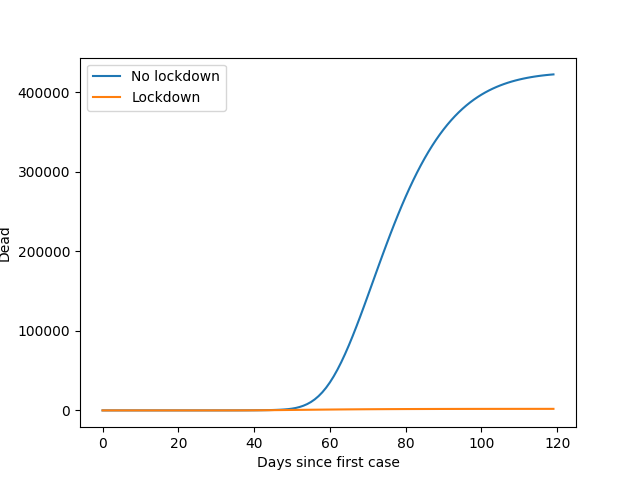
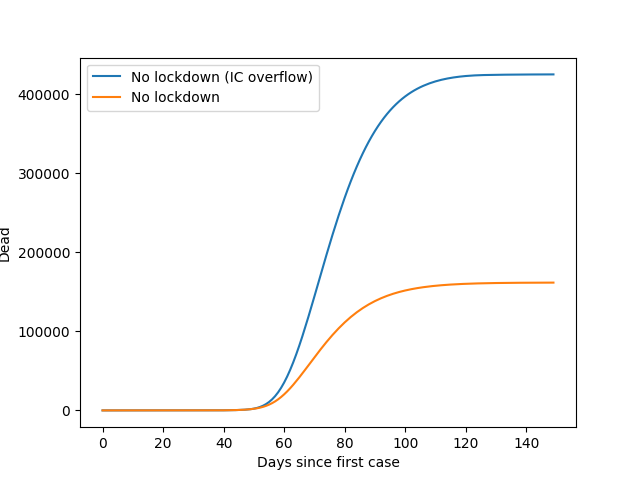
Have fun with merge conflicts

diff --git a/src/main.py b/src/main.py
@@ -210,7 +210,7 @@ def plot_model(contact_matrix, susceptible, infectious_rate, days, reference_cas
 
 def main():
     infectious_rate = .05
-    days = 120
+    days = 150
 
     cc = CCMatrix('cc15.csv', 'eurostat_pop_age.csv', 'COVID19BE_HOSP.csv')
     contact_matrix = cc.cc_matrix
@@ -288,32 +288,32 @@ def main():
     print('IC people:', model_no_lockdown.ic_data[-1])
 
     # Uncomment for plots (icu cap)
-    model_no_lockdown = plot_model(contact_matrix, cc.belgium_count, infectious_rate=infectious_rate, days=days,
+    model_no_lockdown_cap_ic = plot_model(contact_matrix, cc.belgium_count, infectious_rate=infectious_rate, days=days,
                                    first_patient_age=45, cap_ic=True)
 
-    plot([model_no_lockdown.infected_data, model_no_lockdown.hospital_data, model_no_lockdown.ic_data,
-          model_no_lockdown.dead_data, model_no_lockdown.ic_overflow_data], ["Infected", "Hospital", "IC", "Dead", "IC Overflow"],
+    plot([model_no_lockdown_cap_ic.infected_data, model_no_lockdown_cap_ic.hospital_data, model_no_lockdown_cap_ic.ic_data,
+          model_no_lockdown_cap_ic.dead_data, model_no_lockdown_cap_ic.ic_overflow_data], ["Infected", "Hospital", "IC", "Dead", "IC Overflow"],
          name='model_no_lockdown-cap-ic', y_label='Amount')
 
     # plot([model_no_lockdown.ic_data, model_no_lockdown.ic_overflow_data],
     #      ["IC", "IC Overflow"],
     #      name='model_no_lockdown-cap-ic', y_label='Amount')
 
-    plot([model_no_lockdown.infected_data, model.infected_data], ["No lockdown", "Lockdown"],
+    plot([model_no_lockdown_cap_ic.infected_data, model_no_lockdown.infected_data], ["No lockdown (IC overflow)", "No lockdown"],
          name='Infected_lockdown_diff-cap-ic', y_label='Infections')
 
-    plot([model_no_lockdown.hospital_data, model.hospital_data], ["No lockdown", "Lockdown"],
+    plot([model_no_lockdown_cap_ic.hospital_data, model_no_lockdown.hospital_data], ["No lockdown (IC overflow)", "No lockdown"],
          name='Hospital_lockdown_diff-cap-ic', y_label='Hospitalizations')
 
-    plot([model_no_lockdown.dead_data, model.dead_data], ["No lockdown", "Lockdown"],
+    plot([model_no_lockdown_cap_ic.dead_data, model_no_lockdown.dead_data], ["No lockdown (IC overflow)", "No lockdown"],
          name='Dead_lockdown_diff-cap-ic', y_label='Dead')
 
-    plot([model_no_lockdown.ic_data, model.ic_data], ["No lockdown", "Lockdown"],
+    plot([model_no_lockdown_cap_ic.ic_data, model_no_lockdown.ic_data], ["No lockdown (IC overflow)", "No lockdown"],
          name='IC_lockdown_diff-cap-ic', y_label='Intensive Care')
 
-    print('Dead people:', model_no_lockdown.dead_data[-1])
-    print('Hospital people:', model_no_lockdown.hospital_total_data[-1])
-    print('IC people:', model_no_lockdown.ic_data[-1])
+    print('Dead people:', model_no_lockdown_cap_ic.dead_data[-1])
+    print('Hospital people:', model_no_lockdown_cap_ic.hospital_total_data[-1])
+    print('IC people:', model_no_lockdown_cap_ic.ic_data[-1])
 
     # gifs
     # animate([model.infected_data, model.hospital_data, model.ic_data, model.dead_data],
